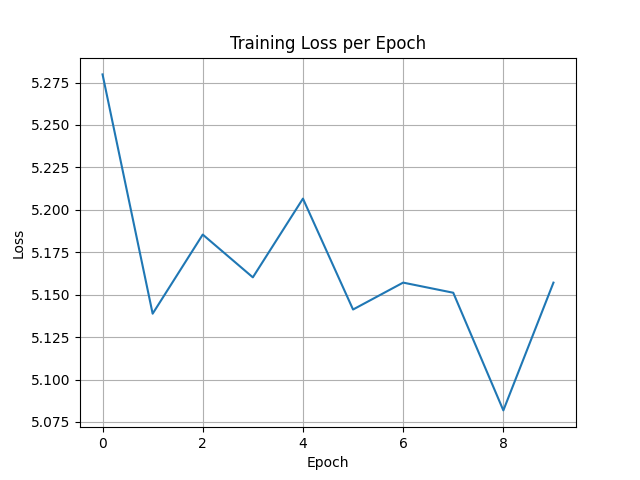
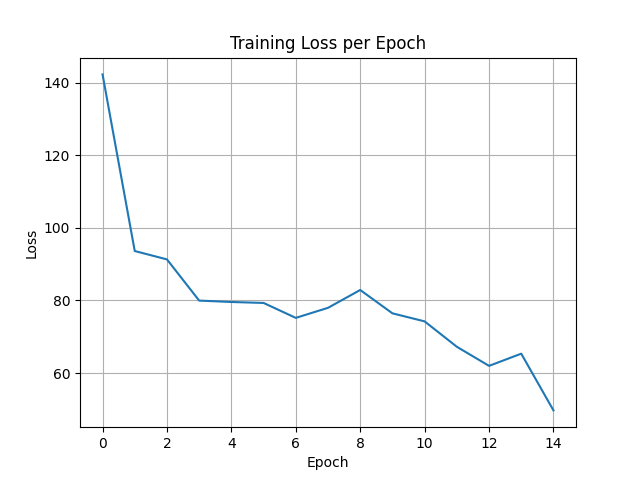
Added diagnostics and fixed non changing loss with no relu at conv2

diff --git a/model_pyg.py b/model_pyg.py
@@ -1,3 +1,5 @@
+import os
+
 import torch
 import torch.nn as nn
 import torch.nn.functional as F
@@ -9,9 +11,6 @@ from torch_geometric.data import HeteroData
 from build_graph_network import SpotifyHeteroGraphBuilder
 from collections import defaultdict
 import matplotlib.pyplot as plt
-
-import torch_sparse
-print(torch_sparse.__version__)
 
 # -------------------------
 # Diagnostics / utils
@@ -98,6 +97,12 @@ class HeteroGNN(nn.Module):
             },
             aggr='mean'
         )
+        self.norm1 = nn.ModuleDict({nt: nn.LayerNorm(hidden_channels) for nt in metadata[0]})
+        self.norm2 = nn.ModuleDict({nt: nn.LayerNorm(out_channels) for nt in metadata[0]})
+
+        self.res_proj = nn.ModuleDict({
+            ntype: nn.Linear(hidden_channels, out_channels) for ntype in node_types
+        })
 
         self.post_lin = nn.ModuleDict()
         for ntype in self.node_types:
@@ -105,27 +110,120 @@ class HeteroGNN(nn.Module):
         print(self)
 
     def forward(self, x_dict, edge_index_dict):
-        # print("DATA ===================================================")
-        # print(x_dict)
-        x_dict = self.conv1(x_dict, edge_index_dict)
-        # print("CONV1 ===================================================")
-        # print(x_dict)
-        x_dict = {k: F.relu(v) for k, v in x_dict.items()}
-        # x_dict = {k: F.dropout(v, p=self.dropout, training=self.training) for k, v in x_dict.items()}
+        # ----- Conv1: input -> hidden -----
+        x1 = self.conv1(x_dict, edge_index_dict)
+        x1 = {
+            k: F.dropout(F.relu(self.norm1[k](v)), p=self.dropout, training=self.training)
+            for k, v in x1.items()
+        }
 
-        x_dict = self.conv2(x_dict, edge_index_dict)
-        # print("CONV2 ===================================================")
-        # print(x_dict)
-        # TODO add residual connection
-        x_dict = {k: F.relu(v) for k, v in x_dict.items()}
+        # ----- Conv2: hidden -> out with residual -----
+        x2 = self.conv2(x1, edge_index_dict)
+        x2 = {
+            k: self.norm2[k](v + self.res_proj[k](x1[k]))
+            for k, v in x2.items()
+        }
 
+        # ----- Optional final linear projection -----
+        out = {k: self.post_lin[k](v) for k, v in x2.items()}
 
-        out = {}
-        for ntype, emb in x_dict.items():
-            out[ntype] = self.post_lin[ntype](emb)
-        # print("OUT ===================================================")
-        # print(out)
         return out
+
+# ------------------------------
+# SIMPLE PLUG-IN DIAGNOSTIC FUNCTION
+# ------------------------------
+def diagnose_batch(model, batch, target_edge, device):
+    import torch
+    import torch.nn.functional as F
+
+    batch = batch.to(device)
+    model.zero_grad()
+
+    out = model(batch.x_dict, batch.edge_index_dict)
+
+    p_idx, t_idx = batch[target_edge].edge_label_index
+    labels = batch[target_edge].edge_label
+
+    z_p = out['Playlist'][p_idx]
+    z_t = out['Track'][t_idx]
+    scores = (z_p * z_t).sum(dim=1)
+
+    # group by playlist
+    from collections import defaultdict
+    pos_by_p = defaultdict(list)
+    neg_by_p = defaultdict(list)
+
+    for i in range(len(scores)):
+        pid = p_idx[i].item()
+        if labels[i] == 1:
+            pos_by_p[pid].append(scores[i])
+        else:
+            neg_by_p[pid].append(scores[i])
+
+    pos_scores = []
+    neg_scores = []
+    for pid in pos_by_p:
+        if pid not in neg_by_p:
+            continue
+        for ps in pos_by_p[pid]:
+            ns = neg_by_p[pid][torch.randint(0, len(neg_by_p[pid]), (1,))]
+            pos_scores.append(ps)
+            neg_scores.append(ns)
+
+    if len(pos_scores) == 0:
+        print("⚠ No valid pos-neg pairs in batch")
+        return
+
+    pos_scores = torch.stack(pos_scores)
+    neg_scores = torch.stack(neg_scores)
+
+    loss = F.softplus(-(pos_scores - neg_scores)).mean()
+    loss.backward()
+
+    print("\n================ DIAGNOSTICS ================\n")
+
+    print("=== EMBEDDINGS ===")
+    print(f"Playlist std={z_p.std():.4f}, mean={z_p.mean():.4f}")
+    print(f"Track    std={z_t.std():.4f}, mean={z_t.mean():.4f}")
+
+    print("\n=== SCORES ===")
+    print(f"BPR loss: {loss.item():.4f}")
+    print(f"Pos mean={pos_scores.mean():.4f}, std={pos_scores.std():.4f}")
+    print(f"Neg mean={neg_scores.mean():.4f}, std={neg_scores.std():.4f}")
+    print(f"Margin (pos-neg): {(pos_scores.mean() - neg_scores.mean()):.4f}")
+
+    print("\n=== SCORE HEALTH ===")
+    print(f"Frac(pos > neg): {(pos_scores > neg_scores).float().mean():.3f}")
+    print(f"Frac(margin > 1): {((pos_scores - neg_scores) > 1).float().mean():.3f}")
+
+    print("\n=== GRADIENT FLOW ===")
+    dead = []
+    tiny = []
+
+    for name, p in model.named_parameters():
+        if p.grad is None:
+            dead.append(name)
+        else:
+            g = p.grad
+            maxg = g.abs().max().item()
+            print(f"{name}: std={g.std():.2e}, max={maxg:.2e}")
+            if maxg < 1e-7:
+                tiny.append(name)
+
+    print(f"\nDead tensors: {len(dead)}")
+    if dead:
+        print("Dead layers:")
+        for d in dead:
+            print(" ", d)
+
+    if tiny:
+        print("\nNear-zero gradient layers:")
+        for t in tiny:
+            print(" ", t)
+
+    print("\n=============================================\n")
+
+
 
 
 # -------------------------
@@ -134,6 +232,9 @@ class HeteroGNN(nn.Module):
 if __name__ == "__main__":
     builder = SpotifyHeteroGraphBuilder()
     data, nodes_id_map = builder.run()
+
+    pt = ("Playlist", "Has Track", "Track")
+    rev_pt = ("Track", "rev_Has Track", "Playlist")
 
     # print_pyg_diagnostics(data)
 
@@ -145,10 +246,12 @@ if __name__ == "__main__":
         num_val=0.0,
         num_test=0.1,
         is_undirected=True,
+        key="edge_label",
         add_negative_train_samples=True,
-        neg_sampling_ratio=70,
-        edge_types=[("Playlist" ,"Has Track", "Track")],
-        rev_edge_types=[('Track', 'rev_Has Track', 'Playlist')]
+        disjoint_train_ratio=0.0,
+        neg_sampling_ratio=20,
+        edge_types=[pt],
+        rev_edge_types=[rev_pt]
     )
     train_data, val_data, test_data = split(data)
     print("TRAIN")
@@ -166,7 +269,8 @@ if __name__ == "__main__":
                       dropout=0.2)
 
     model.to(device)
-    optimizer = torch.optim.Adam(model.parameters(), lr=1e-3, weight_decay=1e-5)
+    optimizer = torch.optim.Adam(model.parameters(), lr=1e-3, weight_decay=1e-4)
+
 
     # Move all data to device
     for ntype in train_data.node_types:
@@ -179,10 +283,9 @@ if __name__ == "__main__":
     # Node counts for negative sampling
     node_counts = {ntype: train_data[ntype].num_nodes for ntype in train_data.node_types}
 
-    batch_size = 30
-    device = 'cpu'
-    epochs = 100
-    num_neighbors = [10, 10]
+    batch_size = 256
+    epochs = 15
+    num_neighbors = [50, 25]
     seed_node_type = None
     target_edge = "Playlist" ,"Has Track", "Track"
 
@@ -196,45 +299,28 @@ if __name__ == "__main__":
     test_edge_label_index = test_data[target_edge].edge_label_index
     test_edge_label = test_data[target_edge].edge_label
 
-    # def check_edges_overlap():
-    #     train_edge_type = ('Playlist', 'Has Track', 'Track')
-    #     rev_train_edge_type = ('Track', 'rev_Has Track', 'Playlist')
-    #
-    #     # Original train edges
-    #     train_edges = set(
-    #         tuple(x.tolist()) for x in train_data[train_edge_type].edge_label_index.t()
-    #     )
-    #
-    #     # Add reversed edges
-    #     rev_train_edges = set(
-    #         (dst.item(), src.item())
-    #         for src, dst in train_data[rev_train_edge_type].edge_label_index.t()
-    #     )
-    #     all_train_edges = train_edges.union(rev_train_edges)
-    #
-    #     test_edge_type = ('Playlist', 'Has Track', 'Track')
-    #     rev_test_edge_type = ('Playlist', 'rev_Has Track', 'Track')
-    #
-    #     test_edges = set(
-    #         tuple(x.tolist()) for x in test_data[test_edge_type].edge_label_index.t()
-    #     )
-    #
-    #     # Include reversed test edges
-    #     rev_test_edges = set(
-    #         (dst.item(), src.item())
-    #         for src, dst in test_data[rev_test_edge_type].edge_label_index.t()
-    #     )
-    #     all_test_edges = test_edges.union(rev_test_edges)
-    #
-    #     overlap = all_train_edges.intersection(all_test_edges)
-    #     print(f"Number of overlapping edges (including reversed): {len(overlap)}")
-    #
-    #     if len(overlap) > 0:
-    #         print("Warning: Some test edges are also in the training set!")
-    #     else:
-    #         print("No overlap between train and test edges. ✅")
-    #
-    # check_edges_overlap()
+
+    def check_train_test_overlap(train_data, test_data, edge_type=('Playlist', 'Has Track', 'Track')):
+        # Train positives
+        train_mask = train_data[edge_type].edge_label == 1
+        train_edges = set(tuple(x.tolist()) for x in train_data[edge_type].edge_label_index[:, train_mask].t())
+
+        # Test positives
+        test_mask = test_data[edge_type].edge_label == 1
+        test_edges = set(tuple(x.tolist()) for x in test_data[edge_type].edge_label_index[:, test_mask].t())
+
+        # Include reversed edges
+        rev_train_edges = set((dst, src) for src, dst in train_edges)
+        rev_test_edges = set((dst, src) for src, dst in test_edges)
+
+        all_train_edges = train_edges.union(rev_train_edges)
+        all_test_edges = test_edges.union(rev_test_edges)
+
+        overlap = all_train_edges.intersection(all_test_edges)
+        print("Number of overlapping POSITIVE edges (including reversed):", len(overlap))
+
+
+    check_train_test_overlap(train_data, test_data)
 
     trainloader = LinkNeighborLoader(
         train_data,
@@ -274,6 +360,8 @@ if __name__ == "__main__":
         skipped_count = 0
 
         for batch in trainloader:
+            # diagnose_batch(model, batch, target_edge, device)
+            # exit()
             optimizer.zero_grad()
             batch_count += 1
             selected_batch = batch[target_edge]
@@ -288,9 +376,8 @@ if __name__ == "__main__":
             labels = batch[edge_type].edge_label
 
             # get corresponding playlists and tracks embeddings
-            z_p = F.normalize(out['Playlist'][p_idx], dim=1)
-            z_t = F.normalize(out['Track'][t_idx], dim=1)
-
+            z_p = out['Playlist'][p_idx]
+            z_t = out['Track'][t_idx]
             scores = (z_p * z_t).sum(dim=1)
 
             pos_by_playlist = defaultdict(list)
@@ -339,12 +426,9 @@ if __name__ == "__main__":
             # print(f"Batch loss {float(loss)}")
             total_loss_epoch += float(loss)
 
-        # if epoch % 5 == 0 or epoch == 1:
         print(f"Epoch {epoch:03d} | Loss: {total_loss_epoch:.4f}"
               f"Skipped {skipped_count}/{batch_count}")
         epoch_losses.append(total_loss_epoch)
-    # epoch_losses = [math.log(x) for x in epoch_losses]
-
 
     plt.plot(epoch_losses)
     plt.xlabel("Epoch")
@@ -357,20 +441,24 @@ if __name__ == "__main__":
     print(f"STD playlist: {out['Playlist'].std(dim=0).mean()}")
 
     model.eval()
+    train_edge_type = ('Playlist', 'Has Track', 'Track')
+    p_idx_train, t_idx_train = train_data[train_edge_type].edge_label_index
+    labels_train = train_data[train_edge_type].edge_label
+
+    train_tracks_by_playlist = defaultdict(set)
+    for pid, tid, lbl in zip(p_idx_train.tolist(), t_idx_train.tolist(), labels_train.tolist()):
+        if lbl == 1:
+            train_tracks_by_playlist[pid].add(tid)
+
     with torch.no_grad():
-        # Playlist embeddings (all playlists)
-        graph_input = {"nodes": {ntype: data[ntype].x.to(device) for ntype in data.node_types},
-                "edges": {etype: data[etype].edge_index.to(device) for etype in data.edge_types}}
 
-        track_ids = torch.tensor(list(data["Track"].ids), dtype=torch.long)
+        out = model(train_data.x_dict, train_data.edge_index_dict)
 
-        out = model(graph_input["nodes"], graph_input["edges"])
         playlist_emb = out['Playlist']
 
         # Track embeddings (only those in training set)
         track_emb = out["Track"]
-
-        track_emb = F.normalize(track_emb, dim=1)
+        track_ids = torch.arange(track_emb.size(0), device=device)
 
         test_edge_type = ('Playlist', 'Has Track', 'Track')
         p_idx, t_idx = test_data[test_edge_type].edge_label_index
@@ -393,16 +481,22 @@ if __name__ == "__main__":
 
         for pid, gt_tids in gt_tracks_by_playlist.items():
             p_vec = playlist_emb[pid].unsqueeze(0)  # [1, embed_dim]
-            p_vec = F.normalize(p_vec, dim=1)
 
             # similarity with training tracks
             sims = torch.matmul(p_vec, track_emb.t()).squeeze(0)  # [num_train_tracks]
 
-            # top-K recommended track indices (relative to train tracks)
-            topk_vals, topk_index = torch.topk(sims, K)
-            topk_index = topk_index.tolist()
+            ignore_tids = train_tracks_by_playlist.get(pid, set())
+            if ignore_tids:
+                mask = torch.ones_like(sims, dtype=torch.bool)
+                ignore_indices = torch.tensor(list(ignore_tids), device=sims.device)
+                mask[ignore_indices] = 0
+                sims_masked = sims.clone()
+                sims_masked[~mask] = -float('inf')  # ensure ignored tracks don't appear in topk
+            else:
+                sims_masked = sims
 
-            # Map topk indices back to global track IDs if needed
+            # top-K recommended track indices (relative to train tracks)
+            topk_vals, topk_index = torch.topk(sims_masked, K)
             topk_track_ids = track_ids[topk_index].tolist()
 
             # Hit Rate@K: at least one ground-truth track in top-K
@@ -415,5 +509,5 @@ if __name__ == "__main__":
         hit_rate = hit_count / num_playlists
         recall_at_k = recall_sum / num_playlists
 
-        print(f"Hit Rate@{K} (restricted to training tracks): {hit_rate:.4f}")
-        print(f"Recall@{K} (restricted to training tracks): {recall_at_k:.4f}")
+        print(f"Hit Rate@{K}: {hit_rate:.4f}")
+        print(f"Recall@{K}: {recall_at_k:.4f}")

diff --git a/build_graph_network.py b/build_graph_network.py
@@ -22,7 +22,7 @@ class SpotifyHeteroGraphBuilder:
         "MusicPlaylist": "Playlist",
         "MusicGroup": "Artist",
         # "MusicAlbum": "Album",
-        "Genre": "Genre",
+        # "Genre": "Genre",
     }
 
     def __init__(self):
